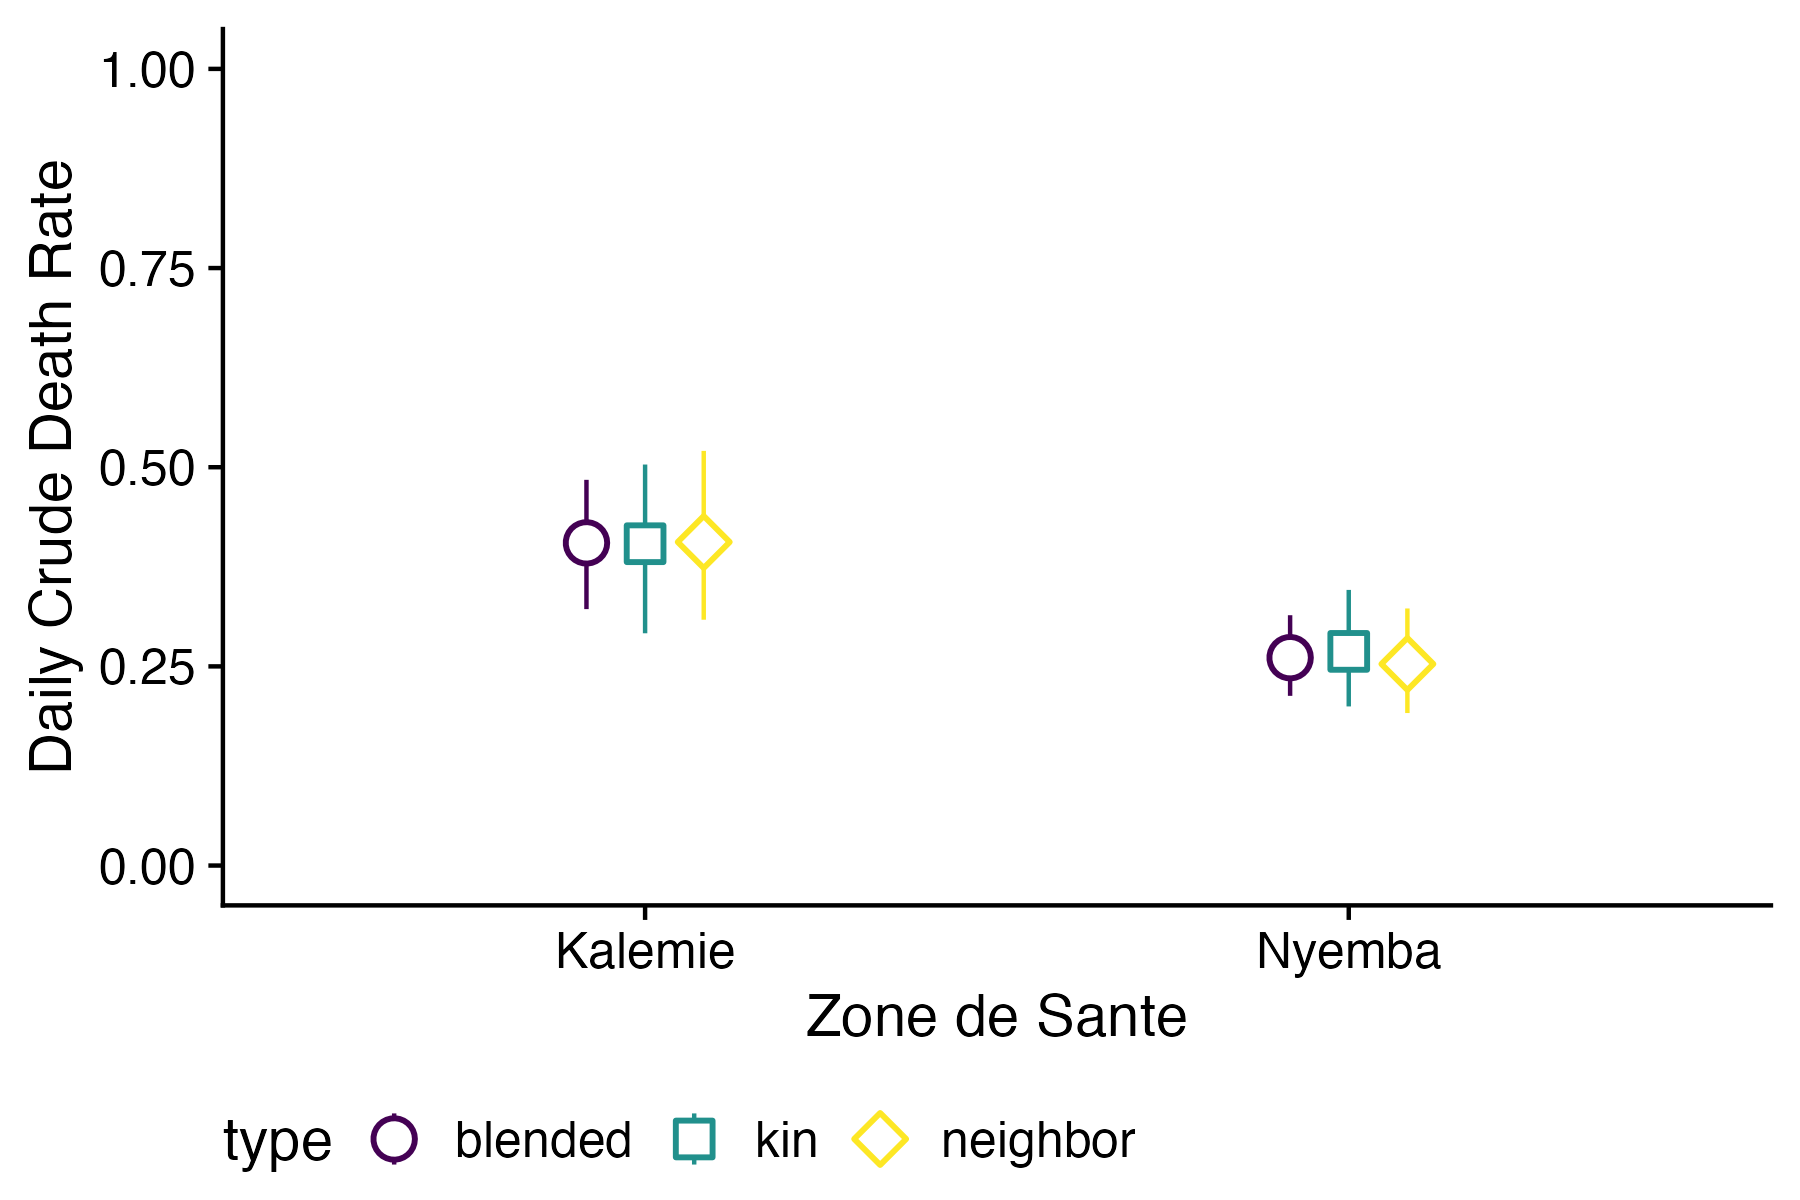
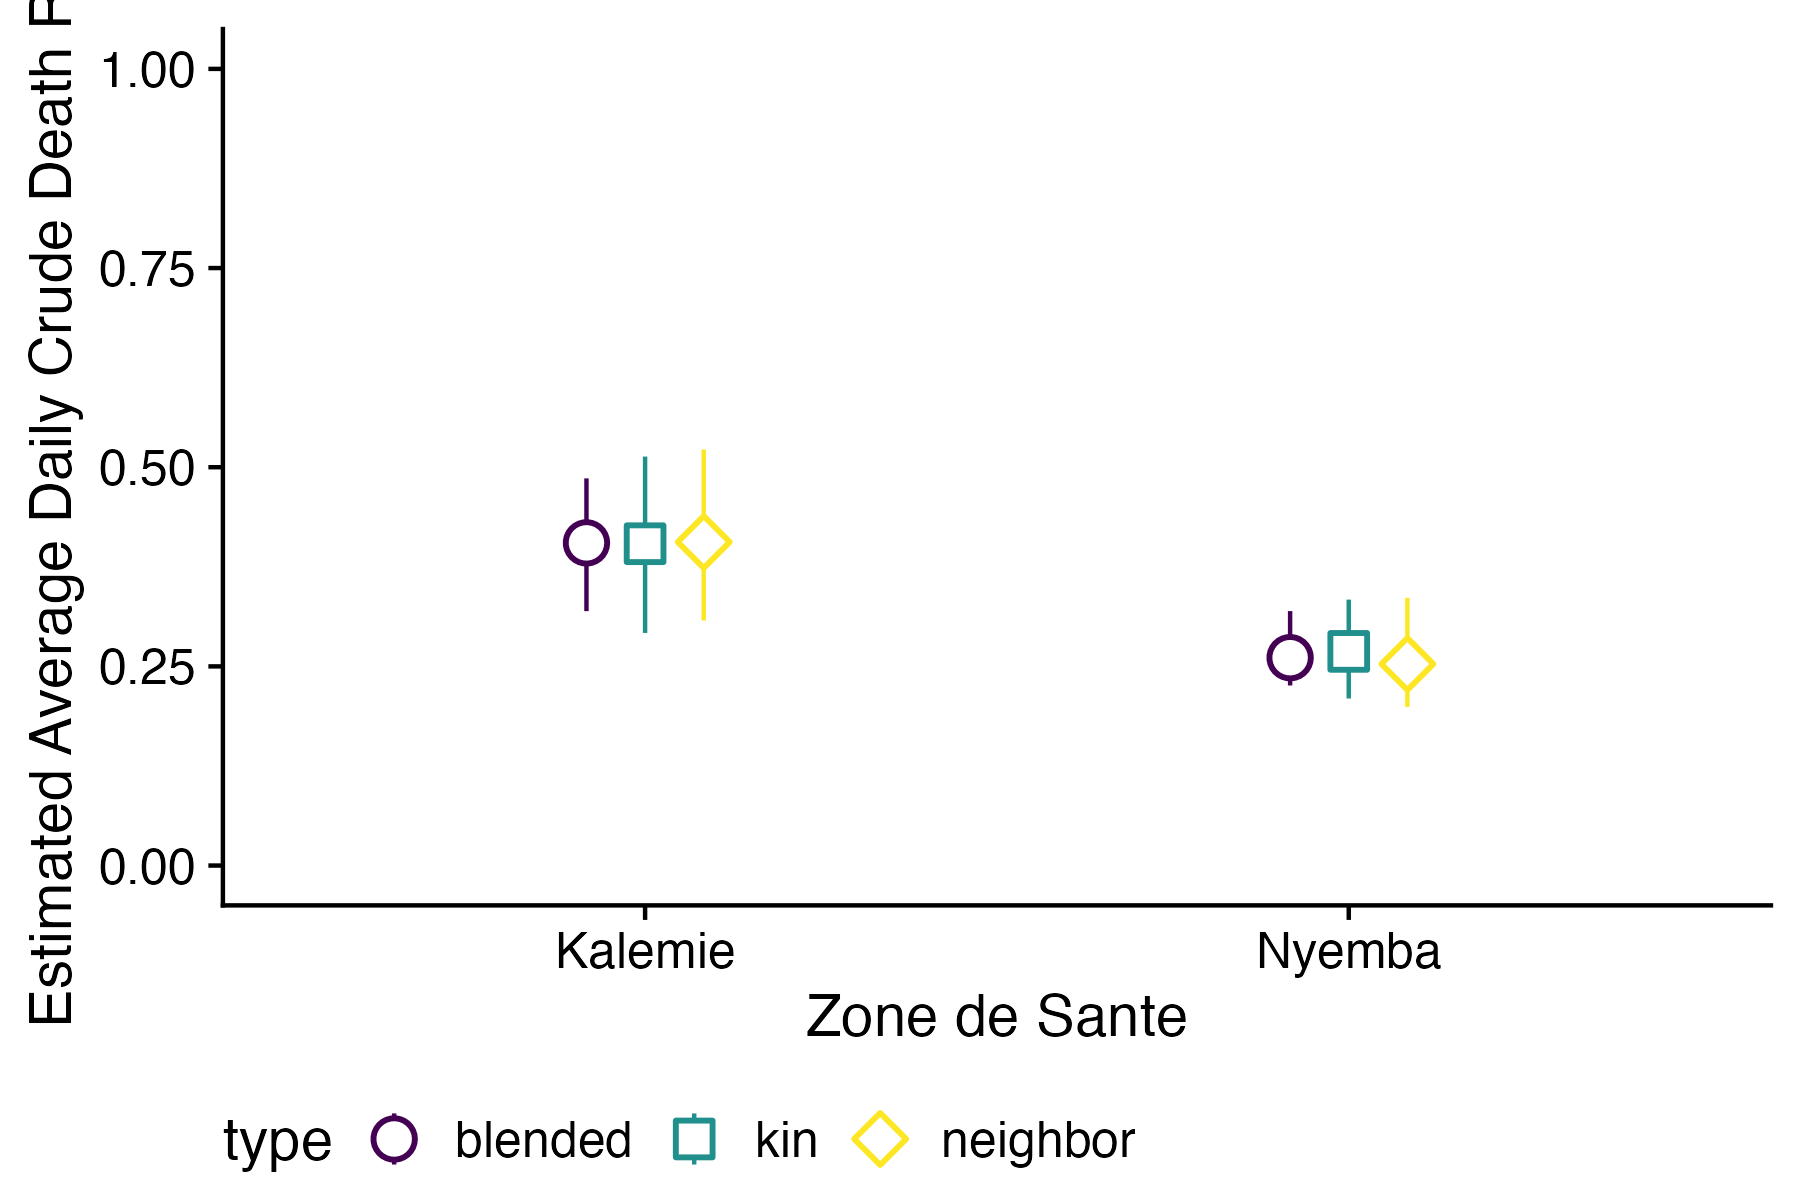
set seed

Changed region(s): [[0.0, 0.0, 0.0622, 0.8633]]

diff --git a/tables/preregistered_estimates_monthly_hz.tex b/tables/preregistered_estimates_monthly_hz.tex
@@ -1,83 +1,83 @@
 % latex table generated in R 4.3.1 by xtable 1.8-4 package
-% Sun Jan 14 17:05:23 2024
+% Fri Jan 19 22:15:17 2024
 \begin{table}[ht]
 \centering
 \begin{tabular}{llllrrr}
   \toprule
 health\_zone & month & network\_tie & weights & death\_rate & death\_rate\_lower & death\_rate\_upper \\ 
   \midrule
-Nyemba & 2023-01-01 & blended & poststrat & 0.28 & 0.18 & 0.37 \\ 
-  Nyemba & 2023-01-01 & blended & unweighted & 0.27 & 0.18 & 0.37 \\ 
-  Nyemba & 2023-01-01 & kin & poststrat & 0.36 & 0.21 & 0.52 \\ 
-  Nyemba & 2023-01-01 & kin & unweighted & 0.34 & 0.21 & 0.52 \\ 
-  Nyemba & 2023-01-01 & neighbor & poststrat & 0.20 & 0.11 & 0.29 \\ 
-  Nyemba & 2023-01-01 & neighbor & unweighted & 0.20 & 0.11 & 0.29 \\ 
-  Nyemba & 2023-02-01 & blended & poststrat & 0.32 & 0.22 & 0.51 \\ 
-  Nyemba & 2023-02-01 & blended & unweighted & 0.38 & 0.22 & 0.51 \\ 
-  Nyemba & 2023-02-01 & kin & poststrat & 0.32 & 0.17 & 0.52 \\ 
-  Nyemba & 2023-02-01 & kin & unweighted & 0.36 & 0.17 & 0.52 \\ 
-  Nyemba & 2023-02-01 & neighbor & poststrat & 0.33 & 0.22 & 0.57 \\ 
-  Nyemba & 2023-02-01 & neighbor & unweighted & 0.41 & 0.22 & 0.57 \\ 
-  Nyemba & 2023-03-01 & blended & poststrat & 0.26 & 0.20 & 0.43 \\ 
-  Nyemba & 2023-03-01 & blended & unweighted & 0.34 & 0.20 & 0.43 \\ 
-  Nyemba & 2023-03-01 & kin & poststrat & 0.25 & 0.15 & 0.47 \\ 
-  Nyemba & 2023-03-01 & kin & unweighted & 0.32 & 0.15 & 0.47 \\ 
-  Nyemba & 2023-03-01 & neighbor & poststrat & 0.27 & 0.19 & 0.47 \\ 
-  Nyemba & 2023-03-01 & neighbor & unweighted & 0.35 & 0.19 & 0.47 \\ 
-  Nyemba & 2023-04-01 & blended & poststrat & 0.15 & 0.06 & 0.28 \\ 
-  Nyemba & 2023-04-01 & blended & unweighted & 0.17 & 0.06 & 0.28 \\ 
-  Nyemba & 2023-04-01 & kin & poststrat & 0.07 & 0.02 & 0.25 \\ 
-  Nyemba & 2023-04-01 & kin & unweighted & 0.16 & 0.02 & 0.25 \\ 
-  Nyemba & 2023-04-01 & neighbor & poststrat & 0.24 & 0.07 & 0.39 \\ 
-  Nyemba & 2023-04-01 & neighbor & unweighted & 0.19 & 0.07 & 0.39 \\ 
-  Nyemba & 2023-05-01 & blended & poststrat & 0.22 & 0.10 & 0.36 \\ 
-  Nyemba & 2023-05-01 & blended & unweighted & 0.25 & 0.10 & 0.36 \\ 
-  Nyemba & 2023-05-01 & kin & poststrat & 0.21 & 0.07 & 0.38 \\ 
-  Nyemba & 2023-05-01 & kin & unweighted & 0.24 & 0.07 & 0.38 \\ 
-  Nyemba & 2023-05-01 & neighbor & poststrat & 0.22 & 0.08 & 0.42 \\ 
-  Nyemba & 2023-05-01 & neighbor & unweighted & 0.25 & 0.08 & 0.42 \\ 
-  Nyemba & 2023-06-01 & blended & poststrat & 0.26 & 0.10 & 0.52 \\ 
-  Nyemba & 2023-06-01 & blended & unweighted & 0.32 & 0.10 & 0.52 \\ 
-  Nyemba & 2023-06-01 & kin & poststrat & 0.33 & 0.09 & 0.80 \\ 
-  Nyemba & 2023-06-01 & kin & unweighted & 0.42 & 0.09 & 0.80 \\ 
-  Nyemba & 2023-06-01 & neighbor & poststrat & 0.20 & 0.00 & 0.49 \\ 
-  Nyemba & 2023-06-01 & neighbor & unweighted & 0.23 & 0.00 & 0.49 \\ 
-  Kalemie & 2023-01-01 & blended & poststrat & 0.31 & 0.22 & 0.41 \\ 
-  Kalemie & 2023-01-01 & blended & unweighted & 0.28 & 0.22 & 0.41 \\ 
-  Kalemie & 2023-01-01 & kin & poststrat & 0.30 & 0.17 & 0.46 \\ 
-  Kalemie & 2023-01-01 & kin & unweighted & 0.30 & 0.17 & 0.46 \\ 
-  Kalemie & 2023-01-01 & neighbor & poststrat & 0.31 & 0.20 & 0.40 \\ 
-  Kalemie & 2023-01-01 & neighbor & unweighted & 0.26 & 0.20 & 0.40 \\ 
-  Kalemie & 2023-02-01 & blended & poststrat & 0.41 & 0.28 & 0.52 \\ 
-  Kalemie & 2023-02-01 & blended & unweighted & 0.39 & 0.28 & 0.52 \\ 
-  Kalemie & 2023-02-01 & kin & poststrat & 0.49 & 0.26 & 0.67 \\ 
-  Kalemie & 2023-02-01 & kin & unweighted & 0.43 & 0.26 & 0.67 \\ 
-  Kalemie & 2023-02-01 & neighbor & poststrat & 0.33 & 0.22 & 0.48 \\ 
-  Kalemie & 2023-02-01 & neighbor & unweighted & 0.35 & 0.22 & 0.48 \\ 
-  Kalemie & 2023-03-01 & blended & poststrat & 0.43 & 0.29 & 0.54 \\ 
-  Kalemie & 2023-03-01 & blended & unweighted & 0.40 & 0.29 & 0.54 \\ 
+Nyemba & 2023-01-01 & blended & poststrat & 0.28 & 0.20 & 0.40 \\ 
+  Nyemba & 2023-01-01 & blended & unweighted & 0.27 & 0.20 & 0.40 \\ 
+  Nyemba & 2023-01-01 & kin & poststrat & 0.36 & 0.21 & 0.58 \\ 
+  Nyemba & 2023-01-01 & kin & unweighted & 0.34 & 0.21 & 0.58 \\ 
+  Nyemba & 2023-01-01 & neighbor & poststrat & 0.20 & 0.12 & 0.30 \\ 
+  Nyemba & 2023-01-01 & neighbor & unweighted & 0.20 & 0.12 & 0.30 \\ 
+  Nyemba & 2023-02-01 & blended & poststrat & 0.32 & 0.24 & 0.49 \\ 
+  Nyemba & 2023-02-01 & blended & unweighted & 0.38 & 0.24 & 0.49 \\ 
+  Nyemba & 2023-02-01 & kin & poststrat & 0.32 & 0.18 & 0.55 \\ 
+  Nyemba & 2023-02-01 & kin & unweighted & 0.36 & 0.18 & 0.55 \\ 
+  Nyemba & 2023-02-01 & neighbor & poststrat & 0.33 & 0.19 & 0.52 \\ 
+  Nyemba & 2023-02-01 & neighbor & unweighted & 0.41 & 0.19 & 0.52 \\ 
+  Nyemba & 2023-03-01 & blended & poststrat & 0.26 & 0.19 & 0.42 \\ 
+  Nyemba & 2023-03-01 & blended & unweighted & 0.34 & 0.19 & 0.42 \\ 
+  Nyemba & 2023-03-01 & kin & poststrat & 0.25 & 0.15 & 0.42 \\ 
+  Nyemba & 2023-03-01 & kin & unweighted & 0.32 & 0.15 & 0.42 \\ 
+  Nyemba & 2023-03-01 & neighbor & poststrat & 0.27 & 0.20 & 0.48 \\ 
+  Nyemba & 2023-03-01 & neighbor & unweighted & 0.35 & 0.20 & 0.48 \\ 
+  Nyemba & 2023-04-01 & blended & poststrat & 0.15 & 0.08 & 0.26 \\ 
+  Nyemba & 2023-04-01 & blended & unweighted & 0.17 & 0.08 & 0.26 \\ 
+  Nyemba & 2023-04-01 & kin & poststrat & 0.07 & 0.02 & 0.31 \\ 
+  Nyemba & 2023-04-01 & kin & unweighted & 0.16 & 0.02 & 0.31 \\ 
+  Nyemba & 2023-04-01 & neighbor & poststrat & 0.24 & 0.10 & 0.36 \\ 
+  Nyemba & 2023-04-01 & neighbor & unweighted & 0.19 & 0.10 & 0.36 \\ 
+  Nyemba & 2023-05-01 & blended & poststrat & 0.22 & 0.12 & 0.39 \\ 
+  Nyemba & 2023-05-01 & blended & unweighted & 0.25 & 0.12 & 0.39 \\ 
+  Nyemba & 2023-05-01 & kin & poststrat & 0.21 & 0.07 & 0.46 \\ 
+  Nyemba & 2023-05-01 & kin & unweighted & 0.24 & 0.07 & 0.46 \\ 
+  Nyemba & 2023-05-01 & neighbor & poststrat & 0.22 & 0.09 & 0.45 \\ 
+  Nyemba & 2023-05-01 & neighbor & unweighted & 0.25 & 0.09 & 0.45 \\ 
+  Nyemba & 2023-06-01 & blended & poststrat & 0.26 & 0.12 & 0.55 \\ 
+  Nyemba & 2023-06-01 & blended & unweighted & 0.32 & 0.12 & 0.55 \\ 
+  Nyemba & 2023-06-01 & kin & poststrat & 0.33 & 0.09 & 0.81 \\ 
+  Nyemba & 2023-06-01 & kin & unweighted & 0.42 & 0.09 & 0.81 \\ 
+  Nyemba & 2023-06-01 & neighbor & poststrat & 0.20 & 0.00 & 0.54 \\ 
+  Nyemba & 2023-06-01 & neighbor & unweighted & 0.23 & 0.00 & 0.54 \\ 
+  Kalemie & 2023-01-01 & blended & poststrat & 0.31 & 0.19 & 0.40 \\ 
+  Kalemie & 2023-01-01 & blended & unweighted & 0.28 & 0.19 & 0.40 \\ 
+  Kalemie & 2023-01-01 & kin & poststrat & 0.30 & 0.18 & 0.44 \\ 
+  Kalemie & 2023-01-01 & kin & unweighted & 0.30 & 0.18 & 0.44 \\ 
+  Kalemie & 2023-01-01 & neighbor & poststrat & 0.31 & 0.17 & 0.39 \\ 
+  Kalemie & 2023-01-01 & neighbor & unweighted & 0.26 & 0.17 & 0.39 \\ 
+  Kalemie & 2023-02-01 & blended & poststrat & 0.41 & 0.26 & 0.55 \\ 
+  Kalemie & 2023-02-01 & blended & unweighted & 0.39 & 0.26 & 0.55 \\ 
+  Kalemie & 2023-02-01 & kin & poststrat & 0.49 & 0.27 & 0.72 \\ 
+  Kalemie & 2023-02-01 & kin & unweighted & 0.43 & 0.27 & 0.72 \\ 
+  Kalemie & 2023-02-01 & neighbor & poststrat & 0.33 & 0.21 & 0.48 \\ 
+  Kalemie & 2023-02-01 & neighbor & unweighted & 0.35 & 0.21 & 0.48 \\ 
+  Kalemie & 2023-03-01 & blended & poststrat & 0.43 & 0.32 & 0.54 \\ 
+  Kalemie & 2023-03-01 & blended & unweighted & 0.40 & 0.32 & 0.54 \\ 
   Kalemie & 2023-03-01 & kin & poststrat & 0.28 & 0.17 & 0.44 \\ 
   Kalemie & 2023-03-01 & kin & unweighted & 0.30 & 0.17 & 0.44 \\ 
-  Kalemie & 2023-03-01 & neighbor & poststrat & 0.58 & 0.37 & 0.72 \\ 
-  Kalemie & 2023-03-01 & neighbor & unweighted & 0.51 & 0.37 & 0.72 \\ 
-  Kalemie & 2023-04-01 & blended & poststrat & 0.44 & 0.26 & 0.61 \\ 
-  Kalemie & 2023-04-01 & blended & unweighted & 0.41 & 0.26 & 0.61 \\ 
-  Kalemie & 2023-04-01 & kin & poststrat & 0.46 & 0.22 & 0.60 \\ 
-  Kalemie & 2023-04-01 & kin & unweighted & 0.46 & 0.22 & 0.60 \\ 
-  Kalemie & 2023-04-01 & neighbor & poststrat & 0.42 & 0.19 & 0.75 \\ 
-  Kalemie & 2023-04-01 & neighbor & unweighted & 0.36 & 0.19 & 0.75 \\ 
-  Kalemie & 2023-05-01 & blended & poststrat & 0.46 & 0.21 & 0.65 \\ 
-  Kalemie & 2023-05-01 & blended & unweighted & 0.34 & 0.21 & 0.65 \\ 
-  Kalemie & 2023-05-01 & kin & poststrat & 0.59 & 0.23 & 0.94 \\ 
-  Kalemie & 2023-05-01 & kin & unweighted & 0.42 & 0.23 & 0.94 \\ 
-  Kalemie & 2023-05-01 & neighbor & poststrat & 0.33 & 0.13 & 0.51 \\ 
-  Kalemie & 2023-05-01 & neighbor & unweighted & 0.26 & 0.13 & 0.51 \\ 
-  Kalemie & 2023-06-01 & blended & poststrat & 0.65 & 0.14 & 1.31 \\ 
-  Kalemie & 2023-06-01 & blended & unweighted & 0.43 & 0.14 & 1.31 \\ 
-  Kalemie & 2023-06-01 & kin & poststrat & 0.64 & 0.09 & 1.31 \\ 
-  Kalemie & 2023-06-01 & kin & unweighted & 0.47 & 0.09 & 1.31 \\ 
-  Kalemie & 2023-06-01 & neighbor & poststrat & 0.67 & 0.08 & 1.41 \\ 
-  Kalemie & 2023-06-01 & neighbor & unweighted & 0.40 & 0.08 & 1.41 \\ 
+  Kalemie & 2023-03-01 & neighbor & poststrat & 0.58 & 0.36 & 0.78 \\ 
+  Kalemie & 2023-03-01 & neighbor & unweighted & 0.51 & 0.36 & 0.78 \\ 
+  Kalemie & 2023-04-01 & blended & poststrat & 0.44 & 0.24 & 0.59 \\ 
+  Kalemie & 2023-04-01 & blended & unweighted & 0.41 & 0.24 & 0.59 \\ 
+  Kalemie & 2023-04-01 & kin & poststrat & 0.46 & 0.22 & 0.61 \\ 
+  Kalemie & 2023-04-01 & kin & unweighted & 0.46 & 0.22 & 0.61 \\ 
+  Kalemie & 2023-04-01 & neighbor & poststrat & 0.42 & 0.17 & 0.74 \\ 
+  Kalemie & 2023-04-01 & neighbor & unweighted & 0.36 & 0.17 & 0.74 \\ 
+  Kalemie & 2023-05-01 & blended & poststrat & 0.46 & 0.20 & 0.65 \\ 
+  Kalemie & 2023-05-01 & blended & unweighted & 0.34 & 0.20 & 0.65 \\ 
+  Kalemie & 2023-05-01 & kin & poststrat & 0.59 & 0.21 & 0.94 \\ 
+  Kalemie & 2023-05-01 & kin & unweighted & 0.42 & 0.21 & 0.94 \\ 
+  Kalemie & 2023-05-01 & neighbor & poststrat & 0.33 & 0.13 & 0.50 \\ 
+  Kalemie & 2023-05-01 & neighbor & unweighted & 0.26 & 0.13 & 0.50 \\ 
+  Kalemie & 2023-06-01 & blended & poststrat & 0.65 & 0.09 & 1.25 \\ 
+  Kalemie & 2023-06-01 & blended & unweighted & 0.43 & 0.09 & 1.25 \\ 
+  Kalemie & 2023-06-01 & kin & poststrat & 0.64 & 0.00 & 1.35 \\ 
+  Kalemie & 2023-06-01 & kin & unweighted & 0.47 & 0.00 & 1.35 \\ 
+  Kalemie & 2023-06-01 & neighbor & poststrat & 0.67 & 0.06 & 1.22 \\ 
+  Kalemie & 2023-06-01 & neighbor & unweighted & 0.40 & 0.06 & 1.22 \\ 
   \end{tabular}
 \caption{} 
 \label{table:preregister_monthly}

diff --git a/tables/preregistered_estimates_monthly.tex b/tables/preregistered_estimates_monthly.tex
@@ -1,47 +1,47 @@
 % latex table generated in R 4.3.1 by xtable 1.8-4 package
-% Sun Jan 14 17:05:20 2024
+% Fri Jan 19 22:15:17 2024
 \begin{table}[ht]
 \centering
 \begin{tabular}{llllrrr}
   \toprule
 geography & month & network\_tie & weights & death\_rate & death\_rate\_lower & death\_rate\_upper \\ 
   \midrule
-Pooled & 2023-01-01 & blended & poststrat & 0.30 & 0.23 & 0.37 \\ 
-  Pooled & 2023-01-01 & blended & unweighted & 0.28 & 0.23 & 0.37 \\ 
-  Pooled & 2023-01-01 & kin & poststrat & 0.33 & 0.23 & 0.47 \\ 
-  Pooled & 2023-01-01 & kin & unweighted & 0.32 & 0.23 & 0.47 \\ 
-  Pooled & 2023-01-01 & neighbor & poststrat & 0.26 & 0.18 & 0.37 \\ 
-  Pooled & 2023-01-01 & neighbor & unweighted & 0.23 & 0.18 & 0.37 \\ 
-  Pooled & 2023-02-01 & blended & poststrat & 0.37 & 0.30 & 0.48 \\ 
-  Pooled & 2023-02-01 & blended & unweighted & 0.39 & 0.30 & 0.48 \\ 
-  Pooled & 2023-02-01 & kin & poststrat & 0.41 & 0.30 & 0.57 \\ 
-  Pooled & 2023-02-01 & kin & unweighted & 0.39 & 0.30 & 0.57 \\ 
-  Pooled & 2023-02-01 & neighbor & poststrat & 0.33 & 0.25 & 0.46 \\ 
-  Pooled & 2023-02-01 & neighbor & unweighted & 0.38 & 0.25 & 0.46 \\ 
-  Pooled & 2023-03-01 & blended & poststrat & 0.34 & 0.27 & 0.45 \\ 
-  Pooled & 2023-03-01 & blended & unweighted & 0.37 & 0.27 & 0.45 \\ 
-  Pooled & 2023-03-01 & kin & poststrat & 0.26 & 0.19 & 0.39 \\ 
-  Pooled & 2023-03-01 & kin & unweighted & 0.31 & 0.19 & 0.39 \\ 
-  Pooled & 2023-03-01 & neighbor & poststrat & 0.42 & 0.30 & 0.53 \\ 
-  Pooled & 2023-03-01 & neighbor & unweighted & 0.43 & 0.30 & 0.53 \\ 
-  Pooled & 2023-04-01 & blended & poststrat & 0.30 & 0.18 & 0.38 \\ 
-  Pooled & 2023-04-01 & blended & unweighted & 0.29 & 0.18 & 0.38 \\ 
-  Pooled & 2023-04-01 & kin & poststrat & 0.27 & 0.14 & 0.42 \\ 
-  Pooled & 2023-04-01 & kin & unweighted & 0.30 & 0.14 & 0.42 \\ 
-  Pooled & 2023-04-01 & neighbor & poststrat & 0.33 & 0.17 & 0.49 \\ 
-  Pooled & 2023-04-01 & neighbor & unweighted & 0.27 & 0.17 & 0.49 \\ 
-  Pooled & 2023-05-01 & blended & poststrat & 0.33 & 0.21 & 0.43 \\ 
-  Pooled & 2023-05-01 & blended & unweighted & 0.29 & 0.21 & 0.43 \\ 
-  Pooled & 2023-05-01 & kin & poststrat & 0.39 & 0.20 & 0.55 \\ 
-  Pooled & 2023-05-01 & kin & unweighted & 0.33 & 0.20 & 0.55 \\ 
-  Pooled & 2023-05-01 & neighbor & poststrat & 0.27 & 0.16 & 0.40 \\ 
-  Pooled & 2023-05-01 & neighbor & unweighted & 0.26 & 0.16 & 0.40 \\ 
-  Pooled & 2023-06-01 & blended & poststrat & 0.45 & 0.20 & 0.72 \\ 
-  Pooled & 2023-06-01 & blended & unweighted & 0.38 & 0.20 & 0.72 \\ 
-  Pooled & 2023-06-01 & kin & poststrat & 0.47 & 0.19 & 0.84 \\ 
-  Pooled & 2023-06-01 & kin & unweighted & 0.44 & 0.19 & 0.84 \\ 
-  Pooled & 2023-06-01 & neighbor & poststrat & 0.43 & 0.12 & 0.79 \\ 
-  Pooled & 2023-06-01 & neighbor & unweighted & 0.31 & 0.12 & 0.79 \\ 
+Pooled & 2023-01-01 & blended & poststrat & 0.30 & 0.21 & 0.37 \\ 
+  Pooled & 2023-01-01 & blended & unweighted & 0.28 & 0.21 & 0.37 \\ 
+  Pooled & 2023-01-01 & kin & poststrat & 0.33 & 0.20 & 0.46 \\ 
+  Pooled & 2023-01-01 & kin & unweighted & 0.32 & 0.20 & 0.46 \\ 
+  Pooled & 2023-01-01 & neighbor & poststrat & 0.26 & 0.17 & 0.34 \\ 
+  Pooled & 2023-01-01 & neighbor & unweighted & 0.23 & 0.17 & 0.34 \\ 
+  Pooled & 2023-02-01 & blended & poststrat & 0.37 & 0.29 & 0.46 \\ 
+  Pooled & 2023-02-01 & blended & unweighted & 0.39 & 0.29 & 0.46 \\ 
+  Pooled & 2023-02-01 & kin & poststrat & 0.41 & 0.29 & 0.55 \\ 
+  Pooled & 2023-02-01 & kin & unweighted & 0.39 & 0.29 & 0.55 \\ 
+  Pooled & 2023-02-01 & neighbor & poststrat & 0.33 & 0.24 & 0.48 \\ 
+  Pooled & 2023-02-01 & neighbor & unweighted & 0.38 & 0.24 & 0.48 \\ 
+  Pooled & 2023-03-01 & blended & poststrat & 0.34 & 0.28 & 0.45 \\ 
+  Pooled & 2023-03-01 & blended & unweighted & 0.37 & 0.28 & 0.45 \\ 
+  Pooled & 2023-03-01 & kin & poststrat & 0.26 & 0.18 & 0.41 \\ 
+  Pooled & 2023-03-01 & kin & unweighted & 0.31 & 0.18 & 0.41 \\ 
+  Pooled & 2023-03-01 & neighbor & poststrat & 0.42 & 0.32 & 0.56 \\ 
+  Pooled & 2023-03-01 & neighbor & unweighted & 0.43 & 0.32 & 0.56 \\ 
+  Pooled & 2023-04-01 & blended & poststrat & 0.30 & 0.18 & 0.37 \\ 
+  Pooled & 2023-04-01 & blended & unweighted & 0.29 & 0.18 & 0.37 \\ 
+  Pooled & 2023-04-01 & kin & poststrat & 0.27 & 0.13 & 0.39 \\ 
+  Pooled & 2023-04-01 & kin & unweighted & 0.30 & 0.13 & 0.39 \\ 
+  Pooled & 2023-04-01 & neighbor & poststrat & 0.33 & 0.17 & 0.48 \\ 
+  Pooled & 2023-04-01 & neighbor & unweighted & 0.27 & 0.17 & 0.48 \\ 
+  Pooled & 2023-05-01 & blended & poststrat & 0.33 & 0.20 & 0.44 \\ 
+  Pooled & 2023-05-01 & blended & unweighted & 0.29 & 0.20 & 0.44 \\ 
+  Pooled & 2023-05-01 & kin & poststrat & 0.39 & 0.18 & 0.52 \\ 
+  Pooled & 2023-05-01 & kin & unweighted & 0.33 & 0.18 & 0.52 \\ 
+  Pooled & 2023-05-01 & neighbor & poststrat & 0.27 & 0.14 & 0.39 \\ 
+  Pooled & 2023-05-01 & neighbor & unweighted & 0.26 & 0.14 & 0.39 \\ 
+  Pooled & 2023-06-01 & blended & poststrat & 0.45 & 0.20 & 0.71 \\ 
+  Pooled & 2023-06-01 & blended & unweighted & 0.38 & 0.20 & 0.71 \\ 
+  Pooled & 2023-06-01 & kin & poststrat & 0.47 & 0.16 & 0.84 \\ 
+  Pooled & 2023-06-01 & kin & unweighted & 0.44 & 0.16 & 0.84 \\ 
+  Pooled & 2023-06-01 & neighbor & poststrat & 0.43 & 0.14 & 0.72 \\ 
+  Pooled & 2023-06-01 & neighbor & unweighted & 0.31 & 0.14 & 0.72 \\ 
   \end{tabular}
 \caption{} 
 \label{table:preregister_monthly}

diff --git a/tables/preregistered_estimates.tex b/tables/preregistered_estimates.tex
@@ -1,0 +1,30 @@
+% latex table generated in R 4.3.1 by xtable 1.8-4 package
+% Fri Jan 19 22:15:17 2024
+\begin{table}[ht]
+\centering
+\begin{tabular}{lllrrr}
+  \toprule
+geography & network\_tie & weights & death\_rate & death\_rate\_lower & death\_rate\_upper \\ 
+  \midrule
+Pooled & kin & poststrat & 0.34 & 0.27 & 0.38 \\ 
+  Pooled & kin & unweighted & 0.34 & 0.29 & 0.38 \\ 
+  Pooled & neighbor & poststrat & 0.33 & 0.27 & 0.38 \\ 
+  Pooled & neighbor & unweighted & 0.32 & 0.27 & 0.36 \\ 
+  Pooled & blended & poststrat & 0.33 & 0.29 & 0.37 \\ 
+  Pooled & blended & unweighted & 0.33 & 0.29 & 0.36 \\ 
+  Nyemba & kin & poststrat & 0.27 & 0.21 & 0.33 \\ 
+  Nyemba & kin & unweighted & 0.30 & 0.25 & 0.37 \\ 
+  Nyemba & neighbor & poststrat & 0.25 & 0.20 & 0.34 \\ 
+  Nyemba & neighbor & unweighted & 0.29 & 0.23 & 0.34 \\ 
+  Nyemba & blended & poststrat & 0.26 & 0.23 & 0.32 \\ 
+  Nyemba & blended & unweighted & 0.30 & 0.25 & 0.34 \\ 
+  Kalemie & kin & poststrat & 0.40 & 0.29 & 0.51 \\ 
+  Kalemie & kin & unweighted & 0.37 & 0.30 & 0.44 \\ 
+  Kalemie & neighbor & poststrat & 0.41 & 0.31 & 0.52 \\ 
+  Kalemie & neighbor & unweighted & 0.36 & 0.29 & 0.43 \\ 
+  Kalemie & blended & poststrat & 0.41 & 0.32 & 0.49 \\ 
+  Kalemie & blended & unweighted & 0.36 & 0.31 & 0.42 \\ 
+  \end{tabular}
+\caption{} 
+\label{table:preregister}
+\end{table}
